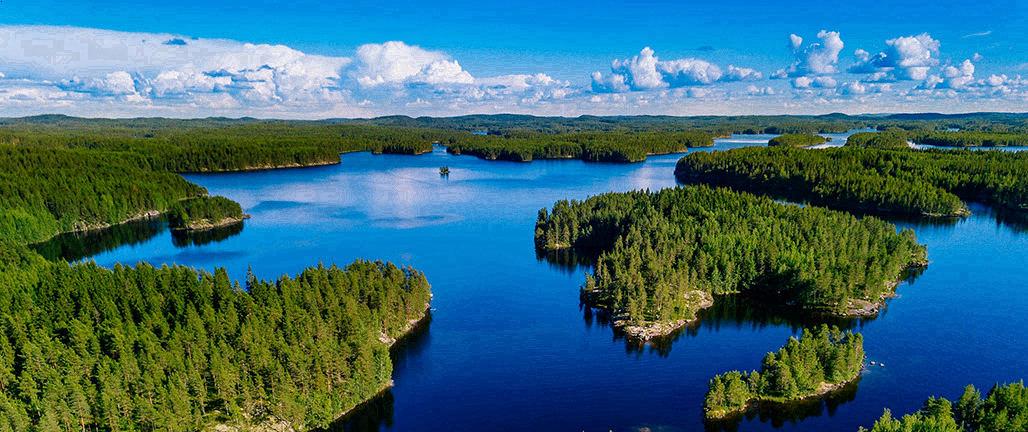
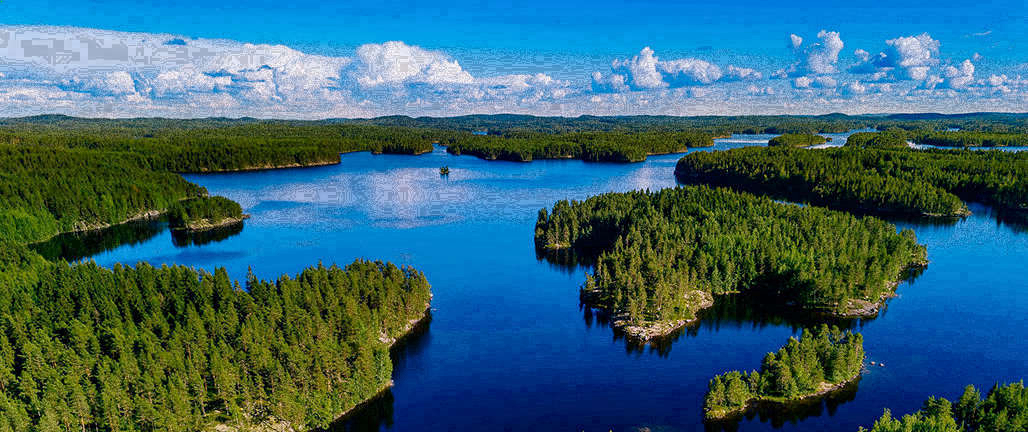
added cahange weight image

diff --git a/index.js b/index.js
@@ -1,26 +1,42 @@
-var piexif = require("piexifjs");
-var fs = require("fs");
-var Jimp = require('jimp');
+const piexif = require("piexifjs");
+const fs = require("fs");
+const Jimp = require('jimp');
 
-(async () => {
-    var filename = "origin_1.jpg";
+async function changeImage(pathImg) {
+    let filename = pathImg;
+    await cahngeExif(filename);
+    await cahngePixelColor(filename);
+}
 
+changeImage('origin_2.jpg');
+
+async function cahngePixelColor(filename) {
+    const image = await Jimp.read(filename);
+    console.log('default pixel color', image.getPixelColor(1, 1));
+    image.setPixelColor(15027215, 1, 1); // рандомизировать
+    console.log('changed pixel color', image.getPixelColor(1, 1));
+    // меняем вес фотографии
+    image.quality(90); // рандомизировать
+    image.write(filename);
+}
+
+async function cahngeExif(filename) {
     var jpeg = fs.readFileSync(filename);
     var data = jpeg.toString("binary");
 
     var zeroth = {};
     var exif = {};
     var gps = {};
-    zeroth[piexif.ImageIFD.Make] = "Make";
-    zeroth[piexif.ImageIFD.XResolution] = [777, 1];
-    zeroth[piexif.ImageIFD.YResolution] = [777, 1];
+    zeroth[piexif.ImageIFD.Make] = "Make"; // рандомизировать
+    zeroth[piexif.ImageIFD.XResolution] = [777, 1]; // рандомизировать
+    zeroth[piexif.ImageIFD.YResolution] = [777, 1]; // рандомизировать
     zeroth[piexif.ImageIFD.Software] = "Adobe Photoshop";
-    exif[piexif.ExifIFD.DateTimeOriginal] = "2010:10:10 10:10:10";
-    exif[piexif.ExifIFD.LensMake] = "LensMake";
-    exif[piexif.ExifIFD.Sharpness] = 777;
+    exif[piexif.ExifIFD.DateTimeOriginal] = "2010:10:10 10:10:10"; // рандомизировать
+    exif[piexif.ExifIFD.LensMake] = "LensMake"; // рандомизировать
+    exif[piexif.ExifIFD.Sharpness] = 777; // рандомизировать
     exif[piexif.ExifIFD.LensSpecification] = [[1, 1], [1, 1], [1, 1], [1, 1]];
-    gps[piexif.GPSIFD.GPSVersionID] = [7, 7, 7, 7];
-    gps[piexif.GPSIFD.GPSDateStamp] = "1999:99:99 99:99:99";
+    gps[piexif.GPSIFD.GPSVersionID] = [7, 7, 7, 7]; // рандомизировать
+    gps[piexif.GPSIFD.GPSDateStamp] = "1999:99:99 99:99:99"; // рандомизировать
     var exifObj = {"0th":zeroth, "Exif":exif, "GPS":gps};
 
     console.log('exifObj', exifObj);
@@ -30,17 +46,5 @@ var Jimp = require('jimp');
     var newData = piexif.insert(exifbytes, data);
     var newJpeg = Buffer.from(newData, "binary");
 
-    await cahngePixelColor(filename);
     fs.writeFileSync(filename, newJpeg);
-})()
-
-
-
-async function cahngePixelColor(filename) {
-    const image = await Jimp.read(filename);
-    console.log('default pixel color', image.getPixelColor(1, 1));
-    image.setPixelColor(19027215, 1, 1);
-    console.log('changed pixel color', image.getPixelColor(1, 1));
-    image.write(filename);
-
 }
